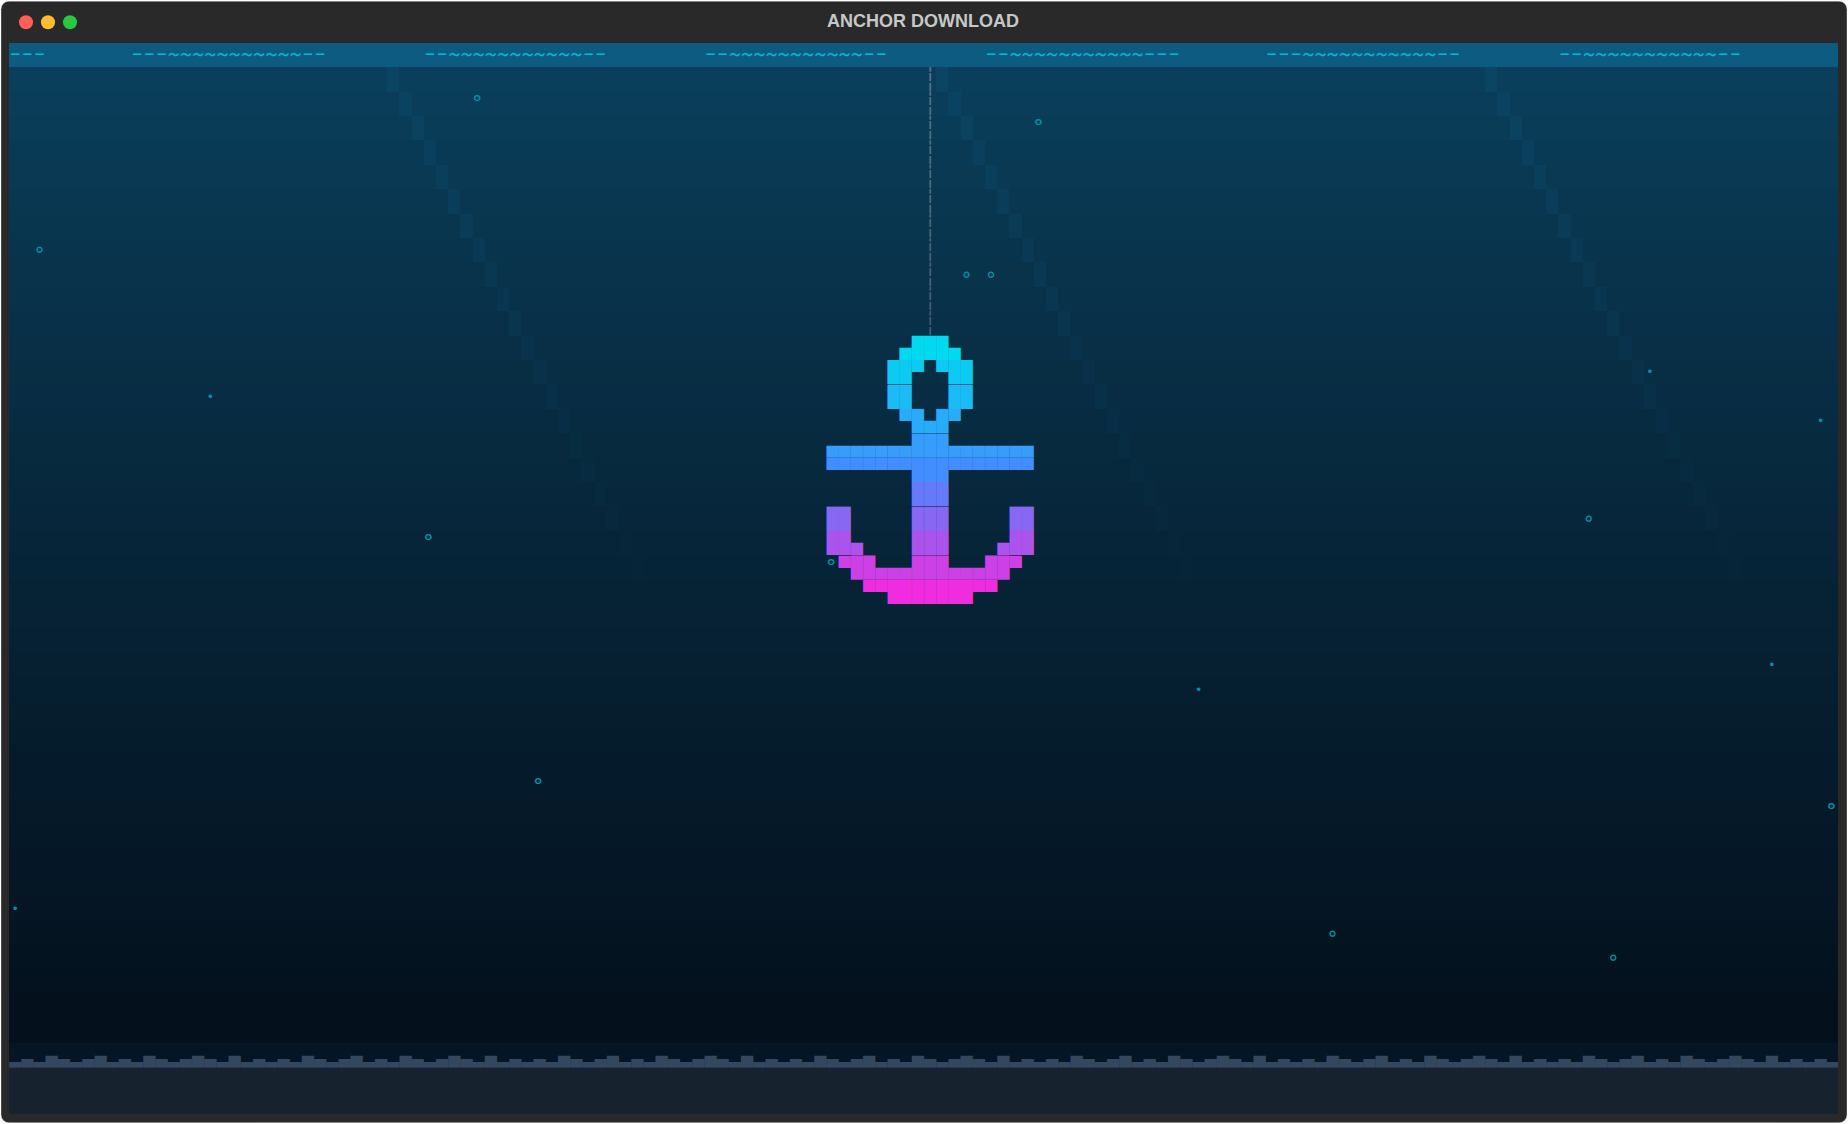
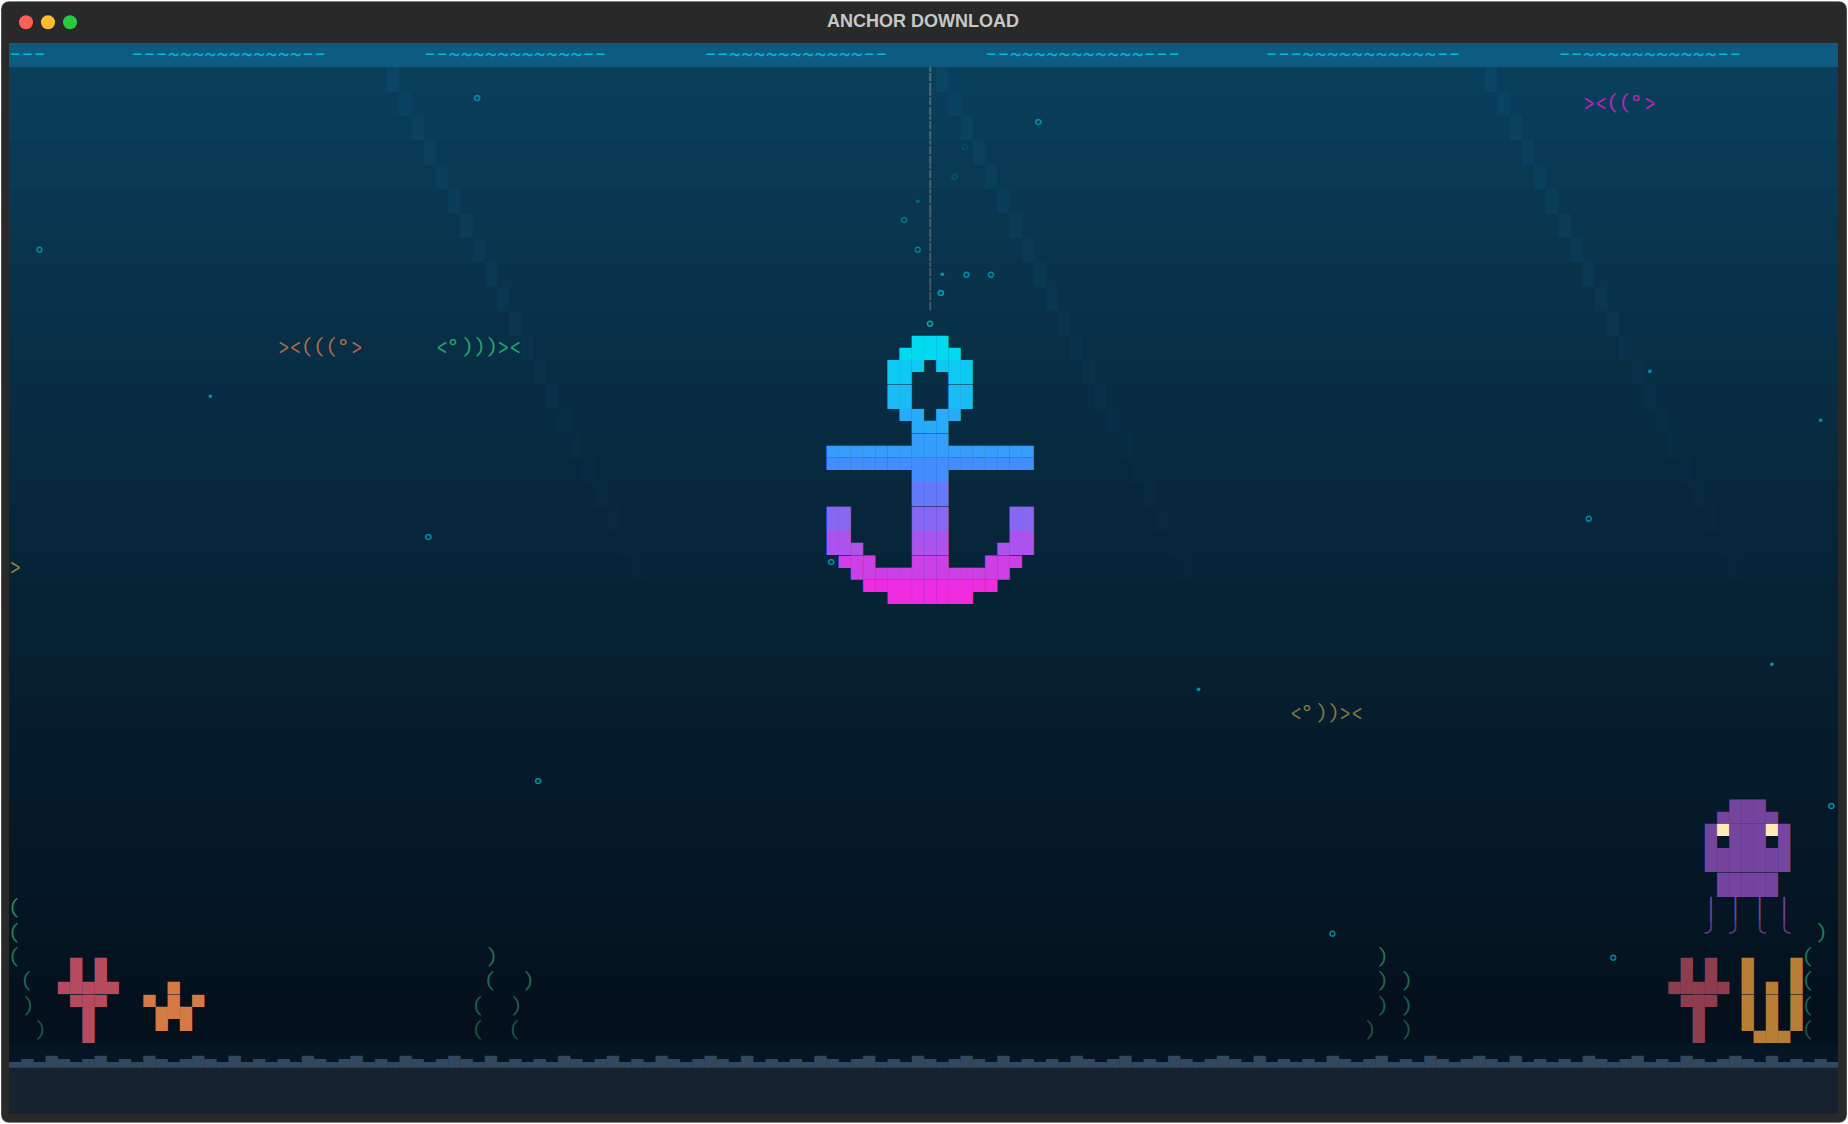
feat: povoar a abertura com um recife, um cardume e um polvo
A abertura tinha agua, ancora e marca — e mais nada. Um mar vazio faz a
descida parecer longa, porque nao ha nada perto para medir o movimento
dela. Agora a cena tem vida: um cardume de seis peixes atravessa a agua
em faixas e velocidades diferentes (metade para cada lado, com o desenho
virado de acordo), o leito ganhou corais nos dois cantos, uma estrela do
mar apoiada na areia e algas balancando na corrente, e um polvo paira ao
lado do recife mexendo os tentaculos.

A ancora tambem deixou de descer em silencio: solta um rastro de bolhas
que fica para tras conforme a queda acelera, e no impacto escapa ar de
baixo dela junto com a areia levantada.

Nada disso e sorteado. As posicoes saem de senos, pelo mesmo motivo de
antes — `random` deixaria a abertura diferente a cada execucao, e ela
precisa ser sempre igual para os testes afirmarem sobre ela e para as
capturas do README nao mudarem sozinhas. A funcao que faz esse papel
virou `_noise`, reaproveitada pelas bolhas que ja existiam.

A ordem de desenho e o que segura a cena em pe: peixes e bolhas primeiro,
recife e polvo depois. Sao primeiro plano, entao tapam o que passa atras
deles em vez de sair rabiscados por um peixe cruzando o coral. Pelo mesmo
motivo o recife mora so nas bordas e os peixes so na agua aberta: o miolo
e onde a ancora fundeia, e tudo ali acabaria escondido atras dela.

Em terminal largo os dois cantos deixavam o meio do leito deserto; duas
[…]

diff --git a/src/anchor_downloader/splash.py b/src/anchor_downloader/splash.py
@@ -1,5 +1,10 @@
 """Abertura: a ancora desce, fundeia, e o mar entrega a marca.
 
+O mar nao e cenario vazio: um cardume atravessa a agua, o leito tem corais nos
+cantos, uma estrela do mar e algas balancando, e um polvo paira ao lado do
+recife. Nada disso e sorteado — cada posicao sai de um seno, pelo motivo
+descrito em `_noise`.
+
 O desenho de cada quadro e uma funcao pura de (tempo, largura, altura), sem
 tocar em widget nenhum. Isso deixa a animacao testavel sem subir a interface e
 permite renderizar quadro a quadro para conferir o resultado com os olhos.
@@ -52,6 +57,15 @@ BED_FILL = "#16232f"  # terra abaixo do leito
 BED_GLYPH = "#33485f" # relevo do leito
 SAND = "#c6b489"      # areia levantada no impacto
 CHAIN = "#5d738c"     # corrente que desce da superficie
+CORAL_ROSE = "#e2596f"  # coral de leque
+CORAL_AMBER = "#e59a3c" # coral tubular
+KELP = "#2f9e6b"      # alga balancando na corrente
+STARFISH = "#f08a4b"   # estrela do mar no leito
+OCTOPUS_SKIN = "#a45bd6"  # polvo, a unica cor quente no meio-fundo
+OCTOPUS_EYE = "#ffe9b5"
+
+# Os peixes nao sao todos da mesma cor: um cardume de uma cor so vira mancha.
+FISH_TONES = ("#ffd75f", "#36ef94", "#f02ce0", "#00d9ef", "#ff9a5f")
 
 ANCHOR = (
     "        ▄███▄        ",
@@ -86,6 +100,41 @@ GLYPH_HEIGHT = 5
 
 SEABED = "▂▃▂▄▃▂▃▄▂▃▂▄▃▂▃▄▃▂▄▂▃"
 
+# Recife. Cada desenho e ancorado pela ultima linha, que encosta no leito.
+CORAL_FAN = (
+    "  ▄ ▄  ",
+    " ▄█▄█▄ ",
+    "  ▀█▀  ",
+    "   █   ",
+)
+CORAL_TUBE = (
+    "▄   ▄",
+    "█ ▄ █",
+    "█ █ █",
+    "▀▄█▄▀",
+)
+STARFISH_SHAPE = (
+    "  ▄  ",
+    "▀▄█▄▀",
+    " ▀ ▀ ",
+)
+
+# Polvo: cabeca fixa, tentaculos desenhados a parte porque se mexem.
+OCTOPUS_HEAD = (
+    "  ▄███▄  ",
+    " ███████ ",
+    " ███████ ",
+    "  █████  ",
+)
+OCTOPUS_WIDTH = len(OCTOPUS_HEAD[0])
+OCTOPUS_EYES = (2, 6)  # colunas, na segunda linha da cabeca
+
+# Peixes de tres tamanhos, sempre em par (direita/esquerda) para o cardume
+# ficar igual nos dois sentidos.
+FISH_RIGHT = ("><>", "><(((°>", "><((°>")
+FISH_LEFT = ("<><", "<°)))><", "<°))><")
+FISH_COUNT = 6
+
 
 def _mix(start: str, end: str, amount: float) -> str:
     amount = max(0.0, min(1.0, amount))
@@ -94,6 +143,15 @@ def _mix(start: str, end: str, amount: float) -> str:
         for i in (1, 3, 5)
     ]
     return "#" + "".join(f"{channel:02x}" for channel in channels)
+
+
+def _noise(seed: float) -> float:
+    """Ruido deterministico: a mesma semente devolve sempre o mesmo numero.
+
+    Faz o papel de `random` sem trazer o problema dele — a abertura precisa
+    desenhar o mesmo quadro toda vez para poder ser testada e capturada.
+    """
+    return abs(math.sin(seed * 12.9898) * 43758.5453)
 
 
 def _ease_in(value: float) -> float:
@@ -198,6 +256,130 @@ def _paint_bed(scene: Scene) -> None:
             scene.put(row, column, " ")
 
 
+def _paint_shape(scene: Scene, shape: tuple[str, ...], left: int, bottom: int,
+                 tone: str, fade: float) -> None:
+    """Desenha uma figura apoiada pela ultima linha em `bottom`.
+
+    Ancorar pelo pe, e nao pelo topo, deixa coral e estrela encostados no leito
+    qualquer que seja a altura do terminal.
+    """
+    for line_index, line in enumerate(shape):
+        row = bottom - len(shape) + 1 + line_index
+        for offset, glyph in enumerate(line):
+            if glyph != " ":
+                scene.put(row, left + offset, glyph, _mix(tone, ABYSS, fade))
+
+
+def _paint_kelp(scene: Scene, elapsed: float, column: int, height: int,
+                phase: float) -> None:
+    """Alga balancando: a mesma curva da onda da superficie, mais lenta."""
+    for step in range(height):
+        sway = math.sin(elapsed * 1.1 + phase + step * 0.55)
+        scene.put(scene.bed_row - 1 - step,
+                  column + (1 if sway > 0.4 else -1 if sway < -0.4 else 0),
+                  ")" if sway > 0 else "(",
+                  _mix(KELP, ABYSS, 0.5 - min(0.36, step * 0.07)))
+
+
+def _paint_reef(scene: Scene, elapsed: float) -> None:
+    """Os dois cantos do leito: corais, algas e a estrela do mar.
+
+    Tudo mora nas bordas de proposito. A ancora fundeia no meio e e desenhada
+    por cima; o que ficasse no centro so apareceria nos primeiros segundos.
+    """
+    bottom = scene.bed_row - 1
+    # Coluna onde o miolo comeca a ser da ancora.
+    edge = max(0, scene.axis - ANCHOR_WIDTH // 2 - 2)
+
+    _paint_kelp(scene, elapsed, 1, 6, 0.0)
+    _paint_shape(scene, CORAL_FAN, 3, bottom, CORAL_ROSE, 0.2)
+    _paint_shape(scene, STARFISH_SHAPE, min(11, edge), bottom, STARFISH, 0.12)
+
+    right = scene.width - 1
+    _paint_kelp(scene, elapsed, right - 1, 5, 1.7)
+    _paint_shape(scene, CORAL_TUBE, right - 7, bottom, CORAL_AMBER, 0.2)
+    _paint_shape(scene, CORAL_FAN, right - 14, bottom, CORAL_ROSE, 0.38)
+
+    # Num terminal largo os dois cantos deixam o meio do leito deserto. Duas
+    # toceiras de alga, mais apagadas, preenchem o vao sem disputar espaco com
+    # a ancora nem roubar a atencao dos corais.
+    if scene.width >= 72:
+        for column, phase in ((int(scene.width * 0.26), 2.4),
+                              (int(scene.width * 0.74), 3.9)):
+            _paint_kelp(scene, elapsed, column, 4, phase)
+            _paint_kelp(scene, elapsed, column + 2, 3, phase + 1.2)
+
+
+def _paint_octopus(scene: Scene, elapsed: float) -> None:
+    """O polvo paira ao lado do recife, subindo e descendo com a corrente."""
+    left = scene.width - OCTOPUS_WIDTH - 3
+    if left <= scene.axis + ANCHOR_WIDTH // 2:
+        return  # terminal estreito: nao sobra lado onde ele nao fique escondido
+    # Alto o bastante para os tentaculos nao encostarem no coral: o coral
+    # mais alto tem quatro linhas, e o polvo tem seis.
+    top = scene.bed_row - 11 + (1 if math.sin(elapsed * 0.8) > 0.35 else 0)
+    tone = _mix(OCTOPUS_SKIN, ABYSS, 0.3)
+
+    for line_index, line in enumerate(OCTOPUS_HEAD):
+        for offset, glyph in enumerate(line):
+            if glyph != " ":
+                scene.put(top + line_index, left + offset, glyph, tone)
+    for offset in OCTOPUS_EYES:
+        scene.put(top + 1, left + offset, "▀", OCTOPUS_EYE)
+
+    # Tentaculos: o mesmo par de linhas, cada um enrolando para um lado no seu
+    # tempo — e o que tira o polvo de figura recortada e colada na agua.
+    for index in range(4):
+        column = left + 1 + index * 2
+        sway = math.sin(elapsed * 2.1 + index * 0.9)
+        scene.put(top + len(OCTOPUS_HEAD), column, "│", tone)
+        scene.put(top + len(OCTOPUS_HEAD) + 1, column,
+                  "╰" if sway > 0 else "╯", _mix(OCTOPUS_SKIN, ABYSS, 0.45))
+
+
+def _paint_fish(scene: Scene, elapsed: float) -> None:
+    """Cardume atravessando a agua, cada peixe na sua faixa e no seu ritmo.
+
+    Metade nada para um lado, metade para o outro, e o desenho vira de acordo:
+    peixe atravessando de costas estraga a cena inteira.
+    """
+    # Faixa de agua aberta: abaixo disso comeca o recife, e peixe desenhado em
+    # cima de coral vira rabisco.
+    lanes = max(1, scene.bed_row - 8)
+    span = scene.width + 14
+    for index in range(FISH_COUNT):
+        lane = 2 + int(_noise(index * 7 + 3) % lanes)
+        row = lane + round(math.sin(elapsed * 1.5 + index))  # sobe e desce nadando
+        if not 0 < row < scene.bed_row:
+            continue
+        to_the_right = index % 2 == 0
+        shape = (FISH_RIGHT if to_the_right else FISH_LEFT)[index % len(FISH_RIGHT)]
+        speed = 4.0 + (index % 4) * 2.3
+        travel = int((_noise(index * 13 + 5) % span + elapsed * speed) % span)
+        left = travel - 7 if to_the_right else scene.width + 6 - travel
+        tone = _mix(FISH_TONES[index % len(FISH_TONES)], ABYSS,
+                    0.2 + 0.45 * (row / max(1, scene.bed_row)))
+        for offset, glyph in enumerate(shape):
+            scene.put(row, left + offset, glyph, tone)
+
+
+def _paint_wake(scene: Scene, elapsed: float, top_row: int, landed: bool) -> None:
+    """Bolhas que a ancora solta enquanto afunda.
+
+    Nascem no fuste e ficam para tras conforme a queda acelera: e esse rastro
+    que faz a descida parecer rapida, mesmo com a ancora sempre no centro.
+    """
+    if landed:
+        return
+    for index in range(9):
+        row = top_row - 1 - index
+        if not 0 < row < scene.bed_row:
+            continue
+        wobble = math.sin(elapsed * 3.0 + index * 1.1) * (1 + index * 0.35)
+        scene.put(row, scene.axis + round(wobble), "∘°·"[index % 3],
+                  _mix(CYAN, ABYSS, 0.2 + index * 0.07))
+
+
 def _paint_bubbles(scene: Scene, elapsed: float) -> None:
     """Bolhas subindo em posicoes deterministicas.
 
@@ -205,7 +387,7 @@ def _paint_bubbles(scene: Scene, elapsed: float) -> None:
     execucao e um teste consegue afirmar sobre ela.
     """
     for index in range(18):
-        column = int(abs(math.sin(index * 12.9898) * 43758.5453) % scene.width)
+        column = int(_noise(index) % scene.width)
         speed = 2.2 + (index % 5) * 0.8
         phase = (index * 0.37 + elapsed * speed / max(1, scene.bed_row)) % 1.0
         row = int((1 - phase) * (scene.bed_row - 2)) + 1
@@ -256,6 +438,11 @@ def _paint_impact(scene: Scene, since: float) -> None:
         for lift in range(lift_count):
             scene.put(scene.bed_row - 1 - lift, column,
                       "▪" if lift == 0 else "·" if lift == 1 else "˙", tone)
+    # No choque escapa ar de baixo da ancora; as bolhas sobem junto com a areia.
+    for index in range(6):
+        column = scene.axis + round(math.sin(index * 2.3) * (spread - 2))
+        scene.put(scene.bed_row - 2 - int((ratio * 7 + index) % 5), column, "∘",
+                  _mix(CYAN, ABYSS, 0.25 + ratio * 0.45))
 
 
 def _brand_progress(elapsed: float) -> tuple[str, str, float]:
@@ -305,10 +492,16 @@ def render_frame(elapsed: float, width: int, height: int, status: str = "") -> T
     scene = Scene(width, height)
     _paint_water(scene, elapsed)
     _paint_bed(scene)
+    _paint_fish(scene, elapsed)
     _paint_bubbles(scene, elapsed)
+    # Recife e polvo por ultimo: sao primeiro plano, entao tapam o que passa
+    # atras deles em vez de sair rabiscado por peixe e bolha.
+    _paint_reef(scene, elapsed)
+    _paint_octopus(scene, elapsed)
 
     top_row, landed = _anchor_row(elapsed, scene)
     _paint_chain(scene, top_row)
+    _paint_wake(scene, elapsed, top_row, landed)
 
     if landed and elapsed - DESCENT_SECONDS < IMPACT_SECONDS:
         _paint_impact(scene, elapsed - DESCENT_SECONDS)

diff --git a/tests/test_splash.py b/tests/test_splash.py
@@ -100,6 +100,90 @@ def test_sem_nada_para_esperar_a_abertura_sai_no_piso():
     assert tela.should_close()
 
 
+# ── A vida em volta da ancora ───────────────────────────────────────────────
+
+def _desenho(pintor, elapsed: float, width: int = 100, height: int = 30) -> list[str]:
+    """Roda um pintor sozinho numa cena vazia e devolve so o que ele desenhou."""
+    cena = splash.Scene(width, height)
+    pintor(cena, elapsed)
+    return ["".join(celula.glyph for celula in linha) for linha in cena.cells]
+
+
+@pytest.mark.parametrize("width", [splash.MIN_WIDTH, 80, 150])
+def test_o_recife_fica_nos_cantos_e_nao_atras_da_ancora(width):
+    """Coral desenhado no miolo some assim que a ancora fundeia em cima dele."""
+    cena = splash.Scene(width, 30)
+    splash._paint_reef(cena, 0.0)
+    splash._paint_octopus(cena, 0.0)
+    ocupadas = {
+        coluna
+        for linha in cena.cells
+        for coluna, celula in enumerate(linha)
+        if celula.glyph != " "
+    }
+    esquerda = cena.axis - splash.ANCHOR_WIDTH // 2
+    ancora = {
+        esquerda + offset
+        for linha in splash.ANCHOR
+        for offset, glyph in enumerate(linha)
+        if glyph != " "
+    }
+    assert ocupadas and not ocupadas & ancora
+
+
+def test_o_recife_nasce_do_leito():
+    """Coral e estrela apoiados no fundo; soltos na agua viravam enfeite."""
+    linhas = _desenho(splash._paint_reef, 0.0)
+    cena = splash.Scene(100, 30)
+    assert linhas[cena.bed_row - 1].strip()
+
+
+def test_o_polvo_cabe_no_menor_terminal_aceito():
+    cena = splash.Scene(splash.MIN_WIDTH, splash.MIN_HEIGHT)
+    splash._paint_octopus(cena, 0.0)
+    colunas = [
+        coluna
+        for linha in cena.cells
+        for coluna, celula in enumerate(linha)
+        if celula.glyph != " "
+    ]
+    assert colunas, "o polvo sumiu justamente no tamanho mais apertado"
+    assert min(colunas) > cena.axis + splash.ANCHOR_WIDTH // 2
+
+
+def test_o_cardume_atravessa_a_agua_sem_entrar_no_recife():
+    """Peixe desenhado em cima de coral vira rabisco, entao ele nao desce ate la."""
+    cena = splash.Scene(100, 30)
+    for quadro in range(96):
+        splash._paint_fish(cena, quadro * splash.FRAME_SECONDS)
+    fundo = cena.cells[cena.bed_row - 2] + cena.cells[cena.bed_row - 1]
+    assert {celula.glyph for celula in fundo} == {" "}
+
+
+def test_o_cardume_se_move_e_repete_o_mesmo_caminho():
+    assert _desenho(splash._paint_fish, 0.0) != _desenho(splash._paint_fish, 1.0)
+    assert _desenho(splash._paint_fish, 1.0) == _desenho(splash._paint_fish, 1.0)
+
+
+def test_a_ancora_solta_bolhas_enquanto_desce_e_para_ao_fundear():
+    """O rastro e o que faz a queda parecer rapida; parada, ela nao bolha mais."""
+    descendo = splash.Scene(100, 30)
+    splash._paint_wake(descendo, 2.6, 12, landed=False)
+    assert any(celula.glyph != " " for linha in descendo.cells for celula in linha)
+
+    fundeada = splash.Scene(100, 30)
+    splash._paint_wake(fundeada, 6.0, fundeada.rest_row, landed=True)
+    assert all(celula.glyph == " " for linha in fundeada.cells for celula in linha)
+
+
+def test_o_quadro_inteiro_mostra_o_cardume_o_recife_e_o_polvo():
+    quadro = splash.render_frame(2.0, 120, 34).plain
+    assert "><" in quadro, "cardume"
+    assert "▄█▄█▄" in quadro, "coral de leque"
+    assert "▀▄█▄▀" in quadro, "estrela do mar"
+    assert "│" in quadro, "tentaculos do polvo"
+
+
 # ── Integracao com o app ────────────────────────────────────────────────────
 
 def _app(**kwargs):

diff --git a/README.md b/README.md
@@ -171,8 +171,10 @@ aparece nelas. Para refazê-las depois de mexer na interface, veja
 
 ![Âncora descendo na abertura](docs/screenshots/abertura.png)
 
-A âncora desce pela água, fundeia no leito e levanta areia. A corrente
-acompanha da superfície, e as bolhas sobem ao fundo.
+A âncora desce pela água soltando um rastro de bolhas, fundeia no leito e
+levanta areia. A corrente acompanha da superfície. No caminho ela passa por um
+cardume, e o fundo tem vida: corais nos dois cantos, uma estrela do mar pousada
+na areia, algas balançando na corrente e um polvo pairando ao lado do recife.
 
 ![Marca formada ao fim da abertura](docs/screenshots/abertura-marca.png)
 
